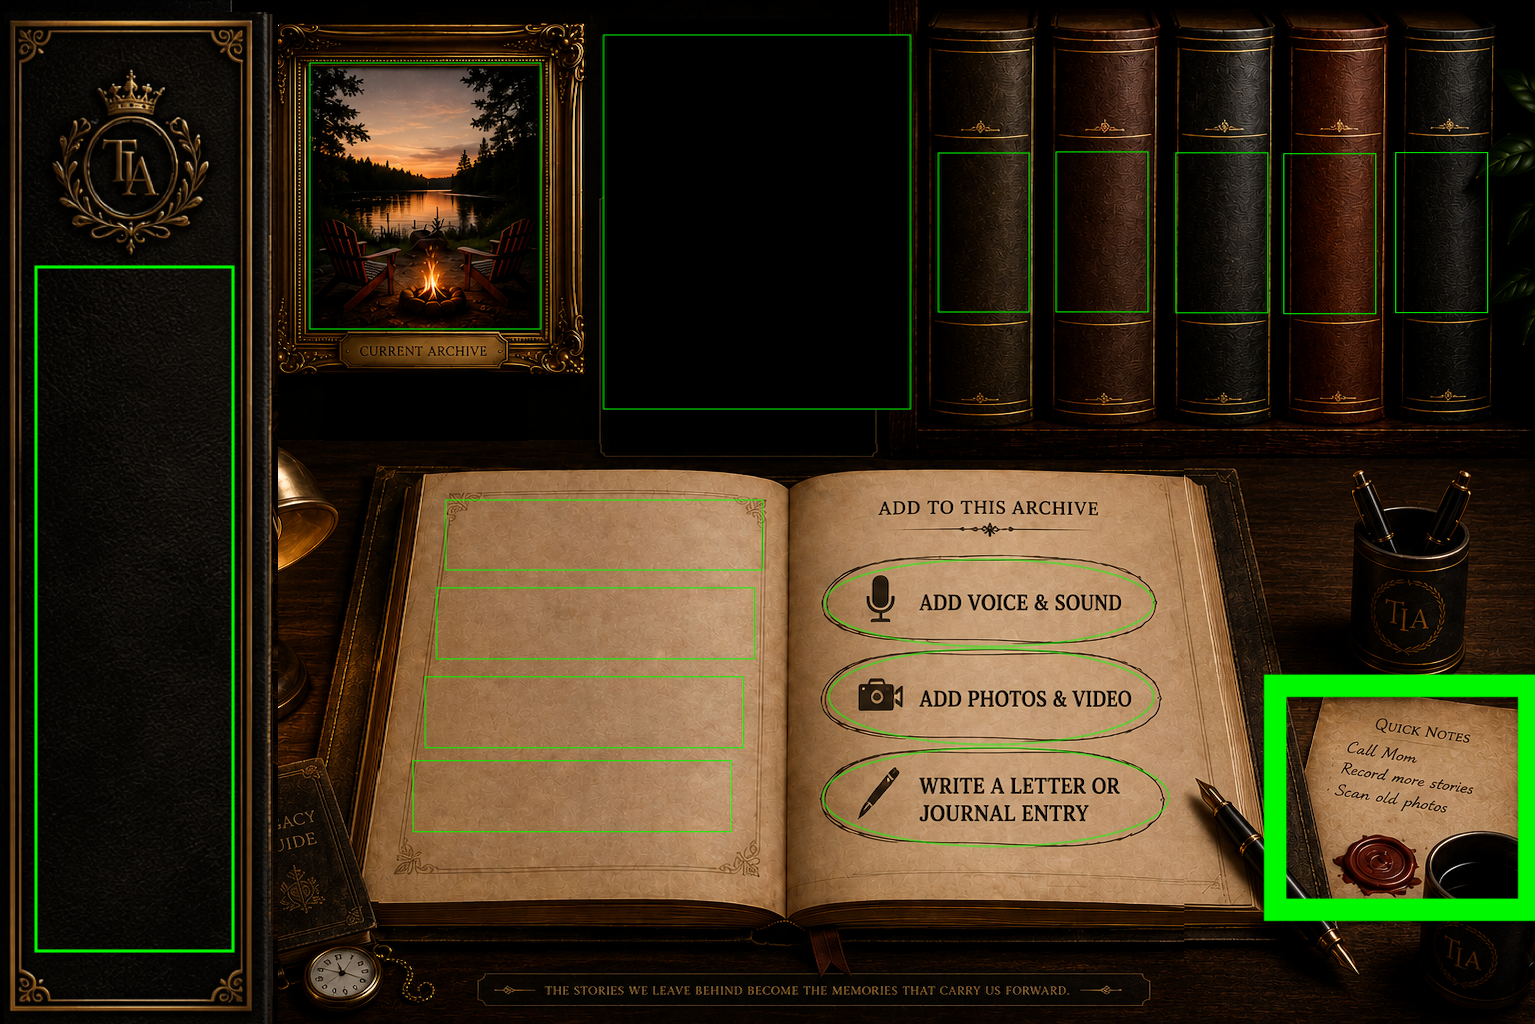
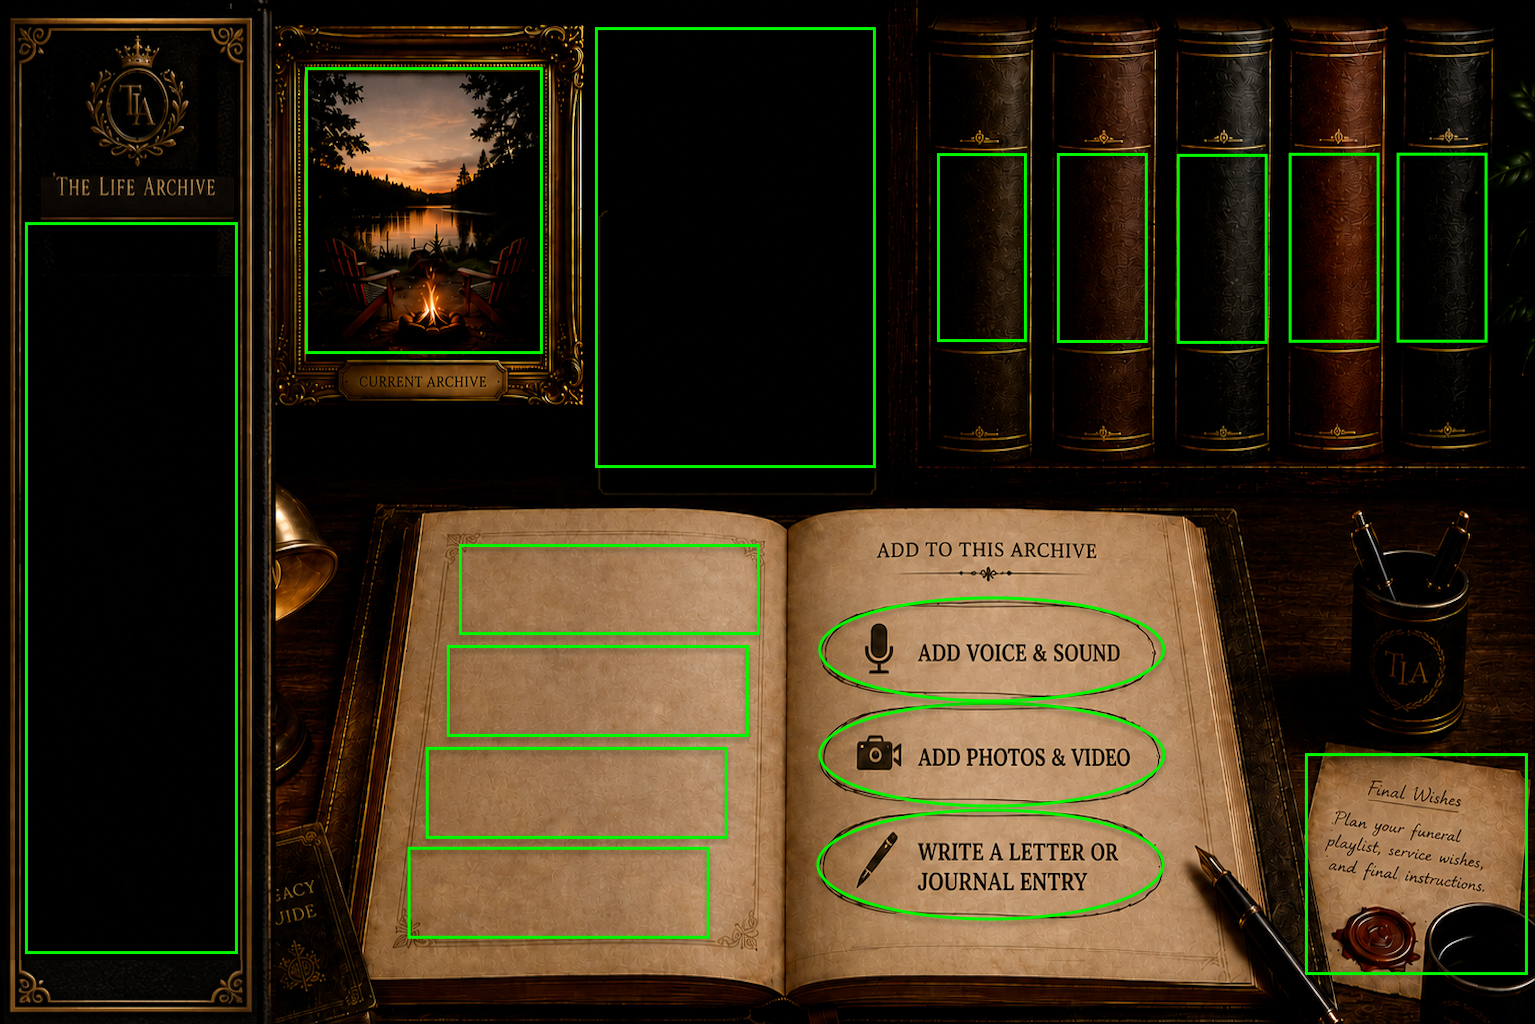
Realign My Archives hotspots to updated guide

diff --git a/tests/final-wishes.test.ts b/tests/final-wishes.test.ts
@@ -10,21 +10,50 @@ async function runFinalWishesTests() {
   console.log("Starting Final Wishes verification test suite...");
 
   // 1. Image Assets Verification
+  const prodMyArchivesPath = join(process.cwd(), "public/images/archive-building/my-archives.png");
+  const siteDesignMyArchivesPath = join(process.cwd(), "site-design/archive-building-design/my-archives.png");
+  const updatedMyArchivesGuide = join(process.cwd(), "site-design/archive-building-design/my-archives-guide.png");
   const newBgPath = join(process.cwd(), "public/images/archive-building/final-wishes.png");
   const siteDesignBgPath = join(process.cwd(), "site-design/archive-building-design/final-wishes.png");
-  const updatedMyArchivesGuide = join(process.cwd(), "site-design/archive-building-design/my-archives-guide.png");
 
+  assert.ok(existsSync(prodMyArchivesPath), "Production image public/images/archive-building/my-archives.png must exist");
+  assert.ok(existsSync(siteDesignMyArchivesPath), "Site design image site-design/archive-building-design/my-archives.png must exist");
+  assert.ok(existsSync(updatedMyArchivesGuide), "Updated guide image site-design/archive-building-design/my-archives-guide.png must exist");
   assert.ok(existsSync(newBgPath), "Production image public/images/archive-building/final-wishes.png must exist");
   assert.ok(existsSync(siteDesignBgPath), "Site design image site-design/archive-building-design/final-wishes.png must exist");
-  assert.ok(existsSync(updatedMyArchivesGuide), "Updated guide image site-design/archive-building-design/my-archives-guide.png must exist");
+
+  // Verify production image matches current source image byte-for-byte or by file hash
+  const prodBuf = readFileSync(prodMyArchivesPath);
+  const srcBuf = readFileSync(siteDesignMyArchivesPath);
+  const guideBuf = readFileSync(updatedMyArchivesGuide);
+
+  assert.ok(prodBuf.equals(srcBuf), "Production image must match current source image byte-for-byte");
+
+  // Verify dimensions of source and guide images (1535 x 1024)
+  const srcWidth = srcBuf.readUInt32BE(16);
+  const srcHeight = srcBuf.readUInt32BE(20);
+  const guideWidth = guideBuf.readUInt32BE(16);
+  const guideHeight = guideBuf.readUInt32BE(20);
+
+  assert.equal(srcWidth, 1535, "Source image width must be 1535px");
+  assert.equal(srcHeight, 1024, "Source image height must be 1024px");
+  assert.equal(guideWidth, 1535, "Guide image width must be 1535px");
+  assert.equal(guideHeight, 1024, "Guide image height must be 1024px");
+  assert.equal(srcWidth / srcHeight, guideWidth / guideHeight, "Source and guide images must share exact aspect ratio");
 
   // 2. Hotspot on My Archive (app/dashboard/page.tsx)
   const dashboardPagePath = join(process.cwd(), "app/dashboard/page.tsx");
   const dashboardContent = readFileSync(dashboardPagePath, "utf8");
 
   assert.match(dashboardContent, /finalWishesRegion/, "Dashboard page must define finalWishesRegion");
+  assert.match(dashboardContent, /left:\s*85\.0163/, "finalWishesRegion must use re-measured left coordinate (85.0163%)");
+  assert.match(dashboardContent, /top:\s*73\.5352/, "finalWishesRegion must use re-measured top coordinate (73.5352%)");
+  assert.match(dashboardContent, /width:\s*14\.5277/, "finalWishesRegion must use re-measured width coordinate (14.5277%)");
+  assert.match(dashboardContent, /height:\s*21\.6797/, "finalWishesRegion must use re-measured height coordinate (21.6797%)");
+
   assert.match(dashboardContent, /ariaLabel="Open Final Wishes"/, "Dashboard page must render accessible label 'Open Final Wishes'");
   assert.match(dashboardContent, /href="\/dashboard\/final-wishes"/, "Hotspot must link to /dashboard/final-wishes");
+  assert.match(dashboardContent, /focus:ring-2/, "Hotspot link must support keyboard accessibility with focus indicator");
 
   // Verify existing hotspots remain present
   assert.match(dashboardContent, /activeArchiveImageRegion/, "Active archive image region must remain present");
@@ -32,6 +61,28 @@ async function runFinalWishesTests() {
   assert.match(dashboardContent, /shelfBookRegions/, "Shelf book regions must remain present");
   assert.match(dashboardContent, /recentMemoryRegions/, "Recent memory regions must remain present");
   assert.match(dashboardContent, /addArchiveActionRegions/, "Add archive action regions must remain present");
+
+  // Confirm Final Wishes hotspot does not overlap with any existing interactive regions
+  const fwLeft = 85.0163;
+  const fwTop = 73.5352;
+  const fwRight = fwLeft + 14.5277;
+  const fwBottom = fwTop + 21.6797;
+
+  const otherRegions = [
+    { name: "dashboardSideNavRegion", left: 1.6287, top: 21.6797, width: 13.8762, height: 71.4844 },
+    { name: "activeArchiveImageRegion", left: 19.8697, top: 6.543, width: 15.5049, height: 28.0273 },
+    { name: "activeArchiveInfoRegion", left: 38.7622, top: 2.6367, width: 18.3062, height: 43.0664 },
+    { name: "shelfBook1", left: 61.0423, top: 14.9414, width: 5.8632, height: 18.457 },
+    { name: "recentMemory1", left: 29.9023, top: 53.125, width: 19.6091, height: 8.8867 },
+    { name: "addArchiveAction1", left: 53.2899, top: 58.2031, width: 22.671, height: 10.2539 }
+  ];
+
+  for (const reg of otherRegions) {
+    const regRight = reg.left + reg.width;
+    const regBottom = reg.top + reg.height;
+    const overlaps = !(fwRight <= reg.left || regRight <= fwLeft || fwBottom <= reg.top || regBottom <= fwTop);
+    assert.ok(!overlaps, `Final Wishes hotspot must not overlap with ${reg.name}`);
+  }
 
   // 3. Route & Component Architecture Verification
   const routePath = join(process.cwd(), "app/dashboard/final-wishes/page.tsx");

diff --git a/app/dashboard/page.tsx b/app/dashboard/page.tsx
@@ -64,52 +64,52 @@ const memoryBreakdownOrder: Array<{ type: MemoryType; label: string }> = [
 ];
 
 const dashboardSideNavRegion = {
-  left: 2.21,
-  top: 25.88,
-  width: 13.09,
-  height: 67.19
+  left: 1.6287,
+  top: 21.6797,
+  width: 13.8762,
+  height: 71.4844
 };
 
 const activeArchiveImageRegion = {
-  left: 20.13,
-  top: 6.05,
-  width: 15.18,
-  height: 26.17
+  left: 19.8697,
+  top: 6.543,
+  width: 15.5049,
+  height: 28.0273
 };
 
 const activeArchiveInfoRegion = {
-  left: 39.22,
-  top: 3.32,
-  width: 20.2,
-  height: 36.72
+  left: 38.7622,
+  top: 2.6367,
+  width: 18.3062,
+  height: 43.0664
 };
 
 const finalWishesRegion = {
-  left: 25.41,
-  top: 53.71,
-  width: 24.69,
-  height: 30.18
+  left: 85.0163,
+  top: 73.5352,
+  width: 14.5277,
+  height: 21.6797
 };
 
 const shelfBookRegions = [
-  { left: 61.04, top: 14.84, width: 6.06, height: 15.72 },
-  { left: 68.73, top: 14.75, width: 6.12, height: 15.82 },
-  { left: 76.55, top: 14.84, width: 6.12, height: 15.82 },
-  { left: 83.58, top: 14.94, width: 6.12, height: 15.82 },
-  { left: 90.88, top: 14.84, width: 6.06, height: 15.72 }
+  { left: 61.0423, top: 14.9414, width: 5.8632, height: 18.457 },
+  { left: 68.8599, top: 14.9414, width: 5.9283, height: 18.5547 },
+  { left: 76.6124, top: 15.0391, width: 5.9935, height: 18.5547 },
+  { left: 83.9739, top: 14.9414, width: 5.9283, height: 18.5547 },
+  { left: 90.9446, top: 14.8438, width: 5.9935, height: 18.6523 }
 ];
 
 const recentMemoryRegions = [
-  { left: 28.99, top: 48.73, width: 20.72, height: 7.03 },
-  { left: 28.4, top: 57.32, width: 20.78, height: 7.13 },
-  { left: 27.62, top: 66.02, width: 20.85, height: 7.13 },
-  { left: 26.84, top: 74.22, width: 20.85, height: 7.03 }
+  { left: 29.9023, top: 53.125, width: 19.6091, height: 8.8867 },
+  { left: 29.1205, top: 62.9883, width: 19.6743, height: 8.9844 },
+  { left: 27.7524, top: 72.9492, width: 19.6743, height: 8.9844 },
+  { left: 26.5147, top: 82.7148, width: 19.7394, height: 8.9844 }
 ];
 
 const addArchiveActionRegions = [
-  { left: 53.68, top: 54.59, width: 21.56, height: 8.5 },
-  { left: 53.94, top: 63.48, width: 21.3, height: 10.35 },
-  { left: 53.55, top: 71.78, width: 22.67, height: 10.94 }
+  { left: 53.2899, top: 58.2031, width: 22.671, height: 10.2539 },
+  { left: 53.2899, top: 68.6523, width: 22.671, height: 10.0586 },
+  { left: 53.1596, top: 78.9062, width: 22.7362, height: 10.8398 }
 ];
 
 const addArchiveActionsConfig: Array<{

diff --git a/tests/archive-building-navigation.test.ts b/tests/archive-building-navigation.test.ts
@@ -7,6 +7,7 @@ const labels = items.map((item) => (item.kind === "divider" ? "---" : item.label
 assert.deepEqual(labels, [
   "ARCHIVE",
   "My Archives",
+  "Final Wishes",
   "Grand Hall",
   "---",
   "PRESERVE",
